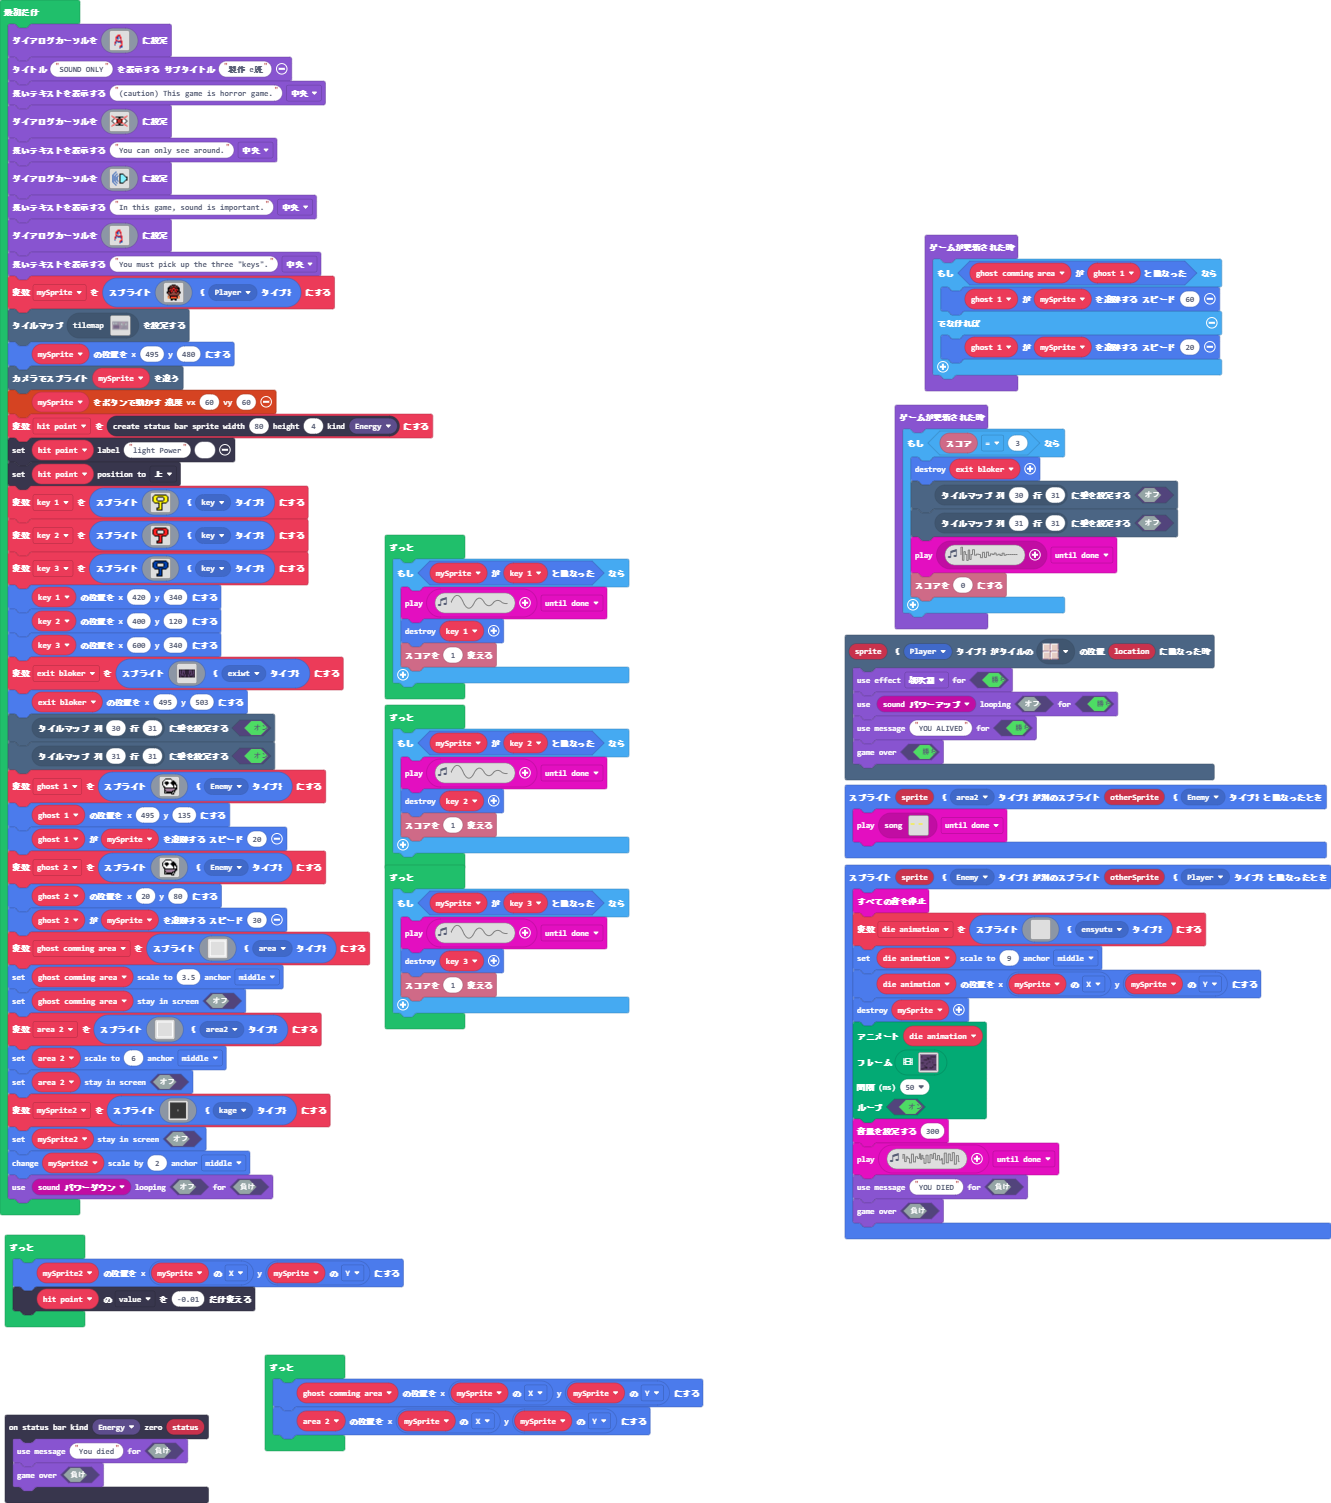
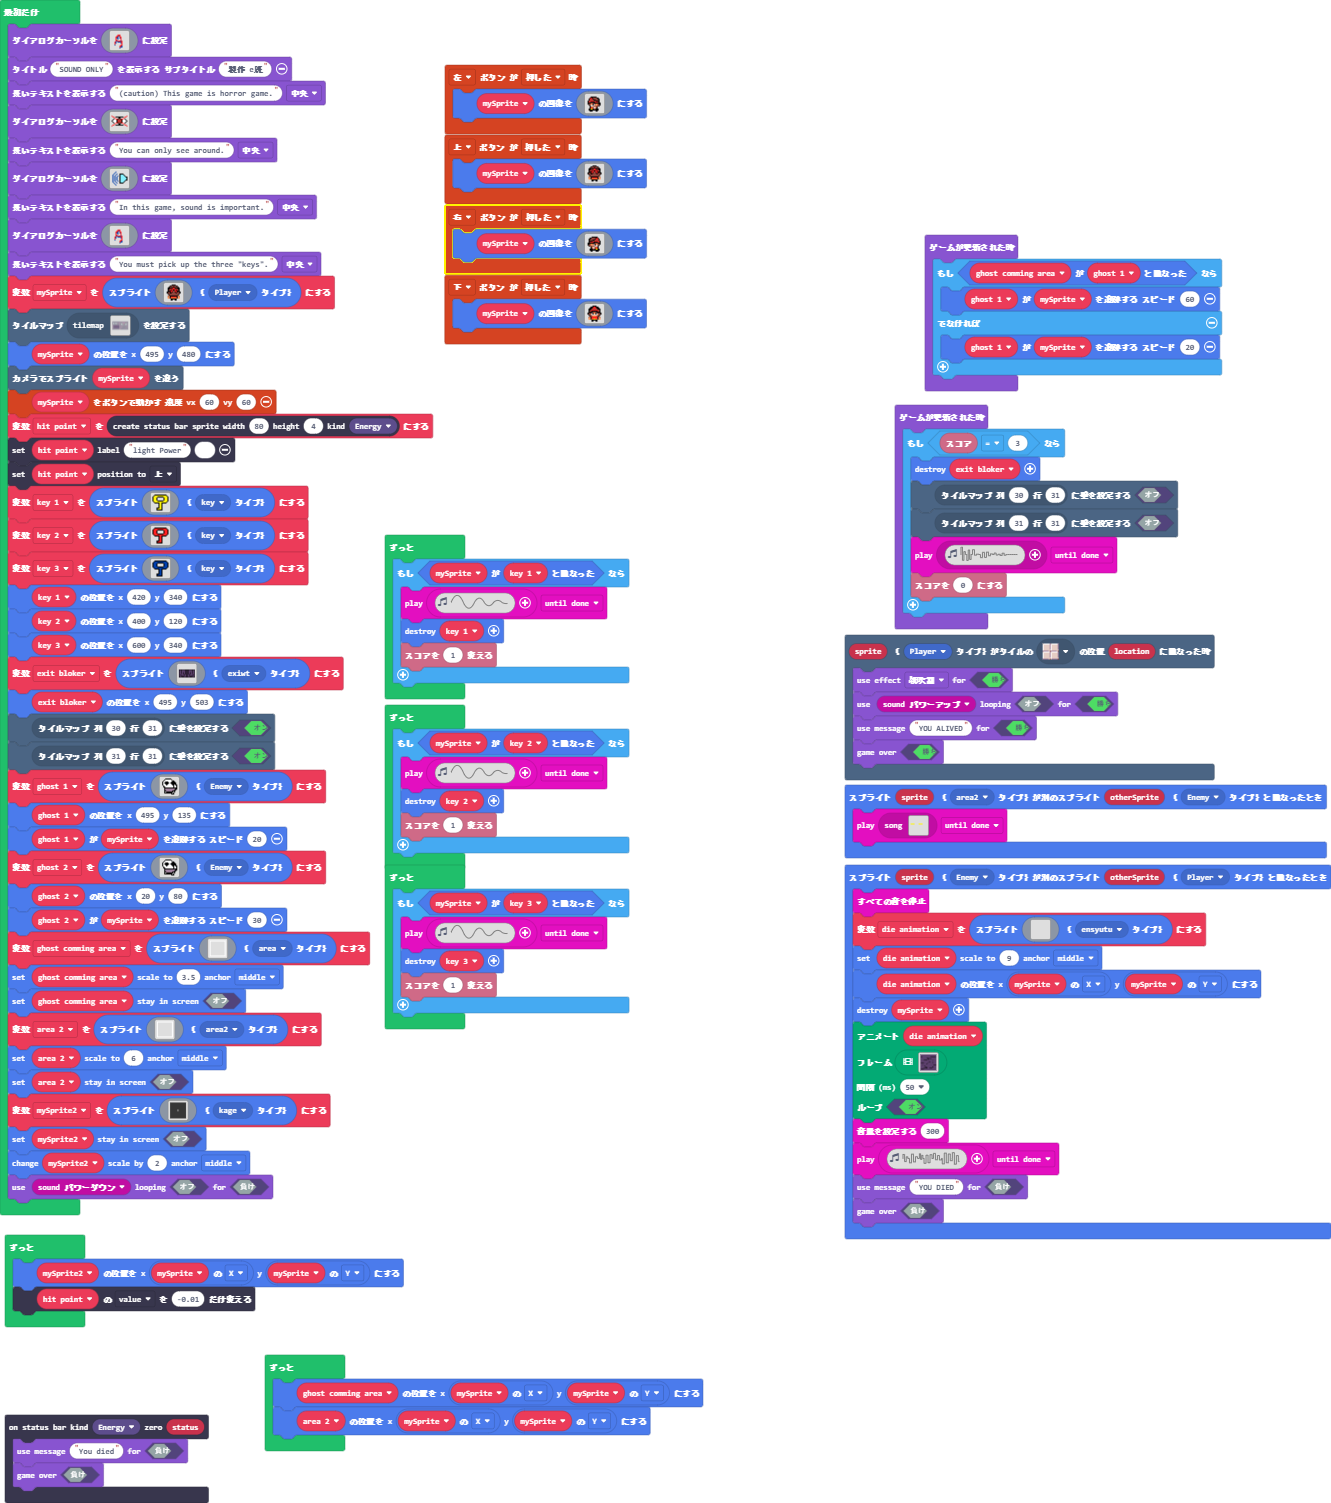
更新 main.blocks, main.ts

Changed region(s): [[0.308, 0.0306, 0.4929, 0.2448]]

diff --git a/main.ts b/main.ts
@@ -14,6 +14,66 @@ scene.onOverlapTile(SpriteKind.Player, sprites.dungeon.floorLight0, function (sp
     game.setGameOverMessage(true, "YOU ALIVED")
     game.gameOver(true)
 })
+controller.right.onEvent(ControllerButtonEvent.Pressed, function () {
+    mySprite.setImage(img`
+        . . . . . . . . . . . . . . . . 
+        . . . . . f f f f f f . . . . . 
+        . . . f f e e e e f 2 f . . . . 
+        . . f f e e e e f 2 2 2 f . . . 
+        . . f e e e f f e e e e f . . . 
+        . . f f f f e e 2 2 2 2 e f . . 
+        . . f e 2 2 2 f f f f e 2 f . . 
+        . f f f f f f f e e e f f f . . 
+        . f f e 4 4 e b f 4 4 e e f . . 
+        . f e e 4 d 4 1 f d d e f . . . 
+        . . f e e e e e d d d f . . . . 
+        . . . . f 4 d d e 4 e f . . . . 
+        . . . . f e d d e 2 2 f . . . . 
+        . . . f f f e e f 5 5 f f . . . 
+        . . . f f f f f f f f f f . . . 
+        . . . . f f . . . f f f . . . . 
+        `)
+})
+controller.down.onEvent(ControllerButtonEvent.Pressed, function () {
+    mySprite.setImage(img`
+        . . . . . . f f f f . . . . . . 
+        . . . . f f f 2 2 f f f . . . . 
+        . . . f f f 2 2 2 2 f f f . . . 
+        . . f f f e e e e e e f f f . . 
+        . . f f e 2 2 2 2 2 2 e e f . . 
+        . . f e 2 f f f f f f 2 e f . . 
+        . . f f f f e e e e f f f f . . 
+        . f f e f b f 4 4 f b f e f f . 
+        . f e e 4 1 f d d f 1 4 e e f . 
+        . . f e e d d d d d d e e f . . 
+        . . . f e e 4 4 4 4 e e f . . . 
+        . . e 4 f 2 2 2 2 2 2 f 4 e . . 
+        . . 4 d f 2 2 2 2 2 2 f d 4 . . 
+        . . 4 4 f 4 4 5 5 4 4 f 4 4 . . 
+        . . . . . f f f f f f . . . . . 
+        . . . . . f f . . f f . . . . . 
+        `)
+})
+controller.left.onEvent(ControllerButtonEvent.Pressed, function () {
+    mySprite.setImage(img`
+        . . . . . . . . . . . . . . . . 
+        . . . . f f f f f f . . . . . . 
+        . . . f 2 f e e e e f f . . . . 
+        . . f 2 2 2 f e e e e f f . . . 
+        . . f e e e e f f e e e f . . . 
+        . f e 2 2 2 2 e e f f f f . . . 
+        . f 2 e f f f f 2 2 2 e f . . . 
+        . f f f e e e f f f f f f f . . 
+        . f e e 4 4 f b e 4 4 e f f . . 
+        . . f e d d f 1 4 d 4 e e f . . 
+        . . . f d d d e e e e e f . . . 
+        . . . f e 4 e d d 4 f . . . . . 
+        . . . f 2 2 e d d e f . . . . . 
+        . . f f 5 5 f e e f f f . . . . 
+        . . f f f f f f f f f f . . . . 
+        . . . f f f . . . f f . . . . . 
+        `)
+})
 sprites.onOverlap(SpriteKind.area2, SpriteKind.Enemy, function (sprite, otherSprite) {
[1 lines of base64/hex data omitted]
 })
@@ -66,6 +126,26 @@ sprites.onOverlap(SpriteKind.Enemy, SpriteKind.Player, function (sprite, otherSp
     music.play(music.createSoundEffect(WaveShape.Noise, 5000, 4126, 136, 255, 2000, SoundExpressionEffect.None, InterpolationCurve.Linear), music.PlaybackMode.UntilDone)
     game.setGameOverMessage(false, "YOU DIED")
     game.gameOver(false)
+})
+controller.up.onEvent(ControllerButtonEvent.Pressed, function () {
+    mySprite.setImage(img`
+        . . . . . . f f f f . . . . . . 
+        . . . . f f e e e e f f . . . . 
+        . . . f e e e f f e e e f . . . 
+        . . f f f f f 2 2 f f f f f . . 
+        . . f f e 2 e 2 2 e 2 e f f . . 
+        . . f e 2 f 2 f f 2 f 2 e f . . 
+        . . f f f 2 2 e e 2 2 f f f . . 
+        . f f e f 2 f e e f 2 f e f f . 
+        . f e e f f e e e e f e e e f . 
+        . . f e e e e e e e e e e f . . 
+        . . . f e e e e e e e e f . . . 
+        . . e 4 f f f f f f f f 4 e . . 
+        . . 4 d f 2 2 2 2 2 2 f d 4 . . 
+        . . 4 4 f 4 4 4 4 4 4 f 4 4 . . 
+        . . . . . f f f f f f . . . . . 
+        . . . . . f f . . f f . . . . . 
+        `)
 })
 statusbars.onZero(StatusBarKind.Energy, function (status) {
     game.setGameOverMessage(false, "You died")
